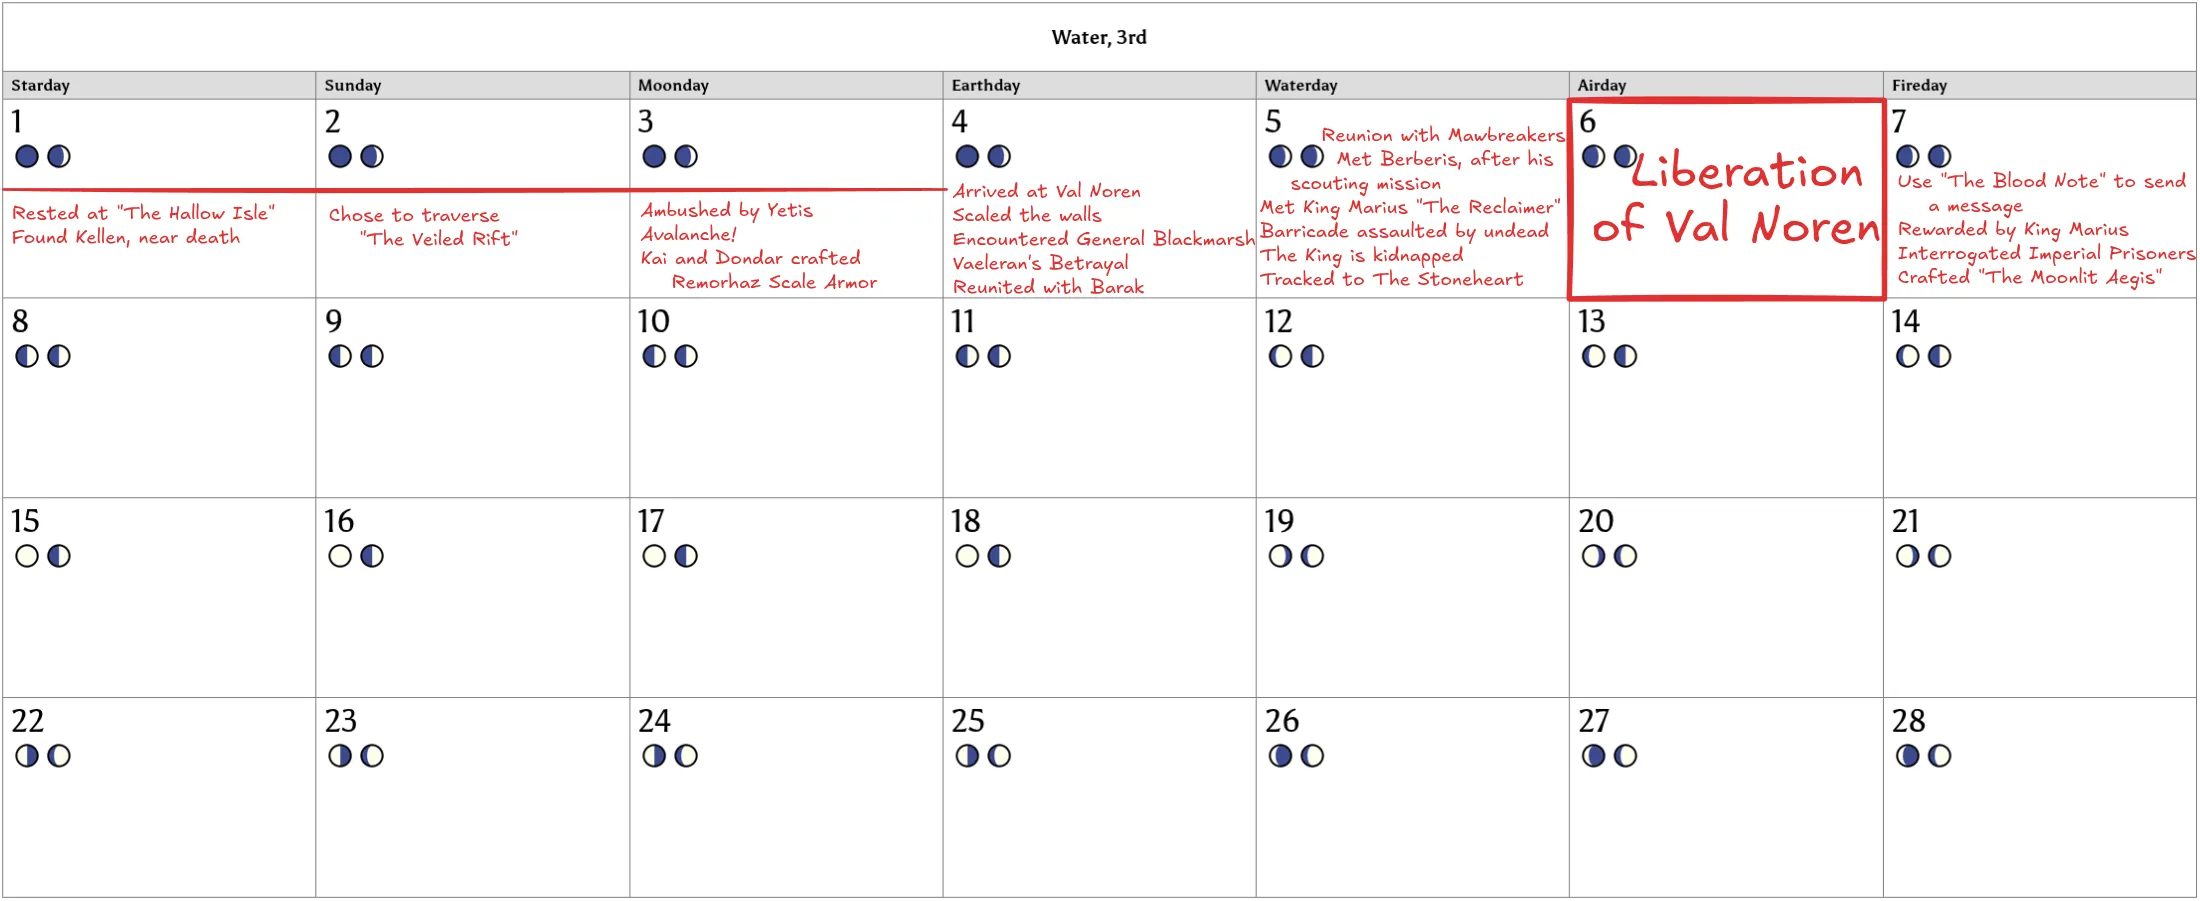
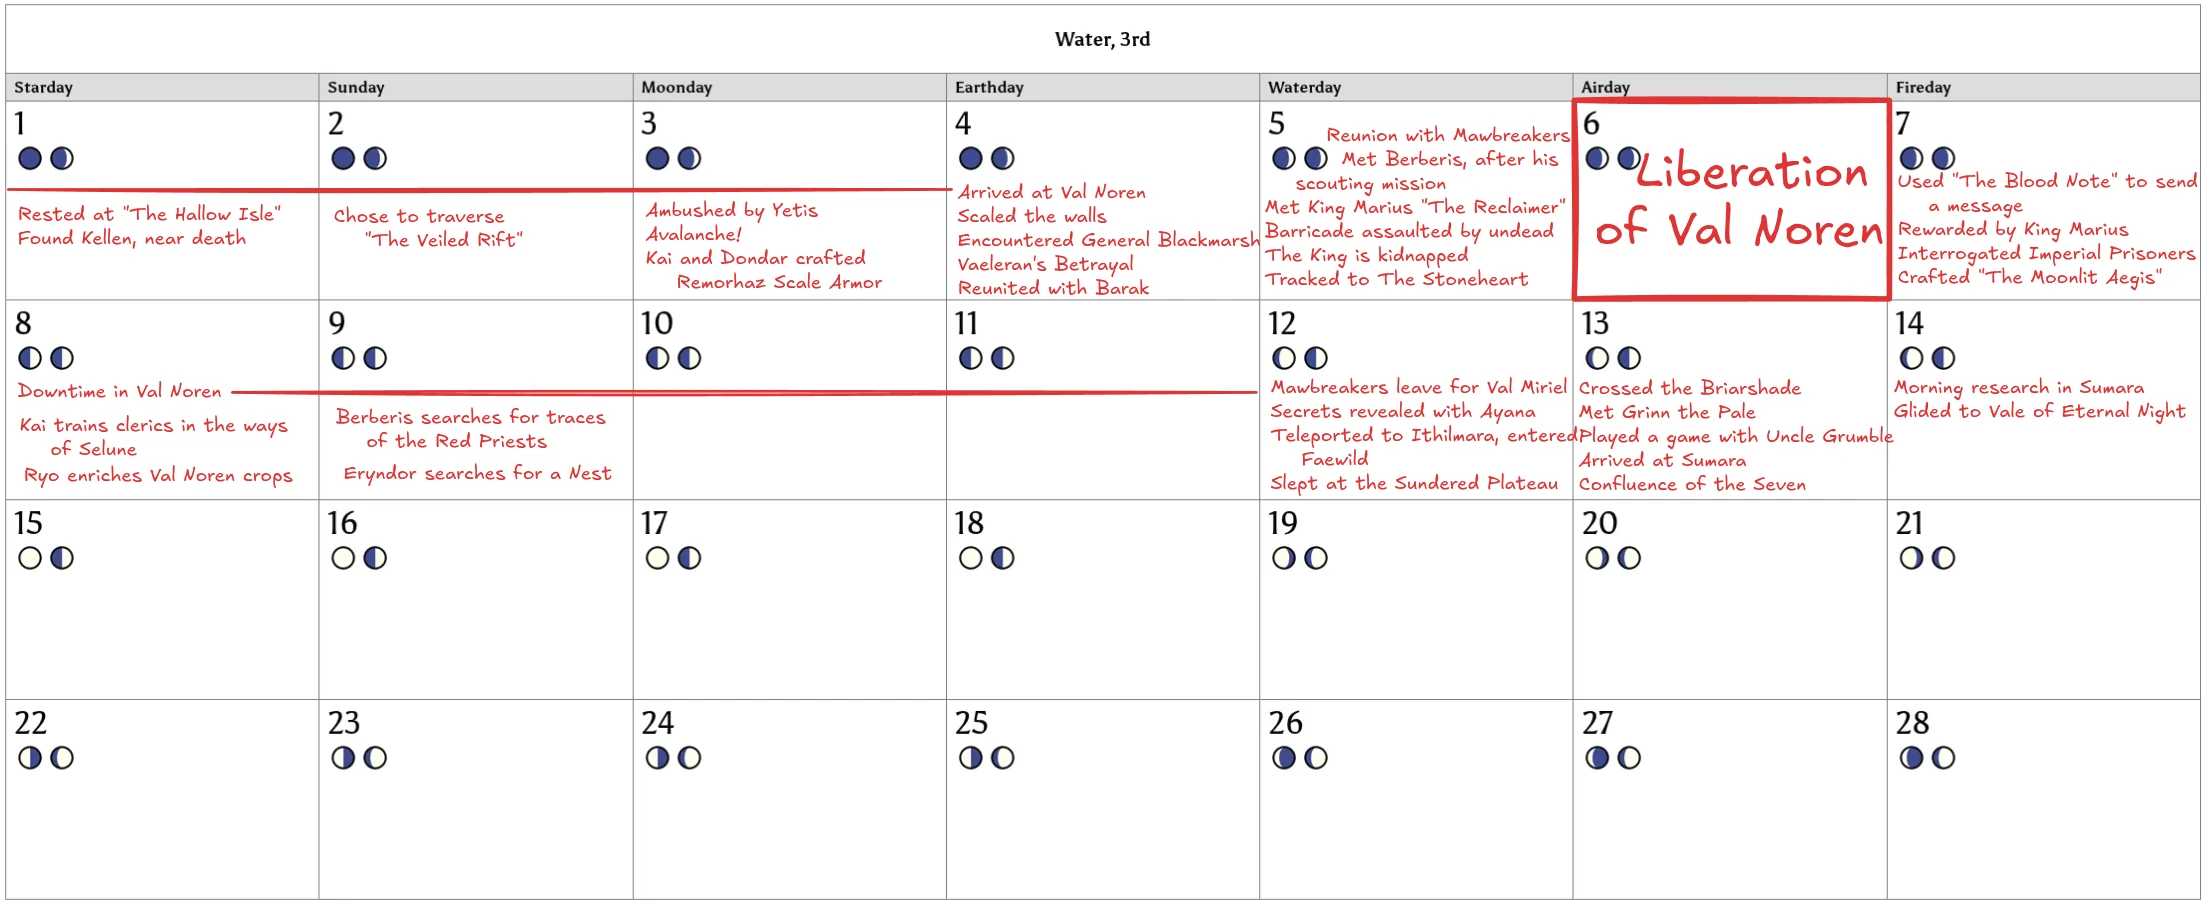
Reorganise session prep into Restricted; update codex locations
Move x_Session Prep docs and sketches under Restricted/Campaigns and
Restricted/One Shots, relocate the interactive calendar, and update
Valtorra, Gulf of Miriel and Northern Reaches codex entries.

diff --git a/Codex/Locations/Regions/Northern Reaches.md b/Codex/Locations/Regions/Northern Reaches.md
@@ -33,10 +33,9 @@ The Northern Reaches is the scattered island chain in the far north-east of [[Va
 
 The Northern Reaches extend north-east from [[Valtorra]]'s coast in a ragged arc of islands separated by cold, ice-prone channels. The largest island rises to a range of forested mountains in its interior; smaller islets to the south and west serve as waypoints and occasional shelter for those crossing the sea. In winter, the channels between the islands freeze into the [[Frostway]], the only reliable route to [[Val Noren]] when sea travel becomes untenable. The crossing is treacherous, managed primarily by the [[Frostwardens]], and takes the better part of a week under good conditions.
 
-![[Northern_Reaches_Location_small.webp|right|400]]
-
 The climate is harsh throughout the chain. Winters are long and punishing; summers are brief, grey, and wet. The forested hillsides of the larger islands are dark with evergreens that grow low and wind-bent, and the exposed coastlines are raw stone worn smooth by ice and tide. The sea is seldom warm even in high summer, and the prevailing winds blow cold off the open ocean to the north.
 
+![[Northern_Reaches_Location_small.webp]]
 
 ## Settlements & Sites
 

diff --git a/Codex/Locations/Regions/Gulf of Miriel.md b/Codex/Locations/Regions/Gulf of Miriel.md
@@ -48,6 +48,8 @@ The climate is warm and wet. Storms boil up across the gulf in the late-year gal
 
 The [[Luminor River]] is the gulf's most important geographical feature after the Maw itself: it runs from [[Val Miriel]] north through the central plains of [[Valtorra]] all the way to the capital, [[Val Luminor]]. Goods and orders flow both ways along it. The gulf is, in effect, the saltwater end of the Empire's spine.
 
+<br>
+
 ## History
 
 [[Val Miriel]] was one of the six human Kingdoms of Old — alongside [[Val Noren]], [[Val Luminor]], [[Val Solis]], [[Val Aran]], and [[Val Aerie]] — and it predates the [[Valtorran Empire|Empire]] by roughly a thousand years. Of the six, the Miriel line were the sea-facing people: Val Miriel grew into the continent's great port and the key gateway to [[Val Luminor]] up the river. Their wealth and power came from the ocean and the trade it carried — though they were never sea-raiders or sealords in the proper sense. They were a port kingdom, and the gulf was the source of everything that made them powerful.

diff --git a/Codex/Locations/Continents/Valtorra.md b/Codex/Locations/Continents/Valtorra.md
@@ -48,7 +48,12 @@ In the south, the [[Aeolian Chasm|Aeolian Mountains]] and the colossal chasm the
 
 Its climate runs the full range of the world: frozen sea-ice across the north-eastern reaches where the Frostway forms; cold boreal winters under the northern forest; temperate, fertile weather across the central plains; arid heat in the western desert; and warm, wet, storm-prone air around the southern Gulf.
 
+### High Quality Maps
 
+> [!example]+ *Links*
+> *Once open: Right Click Image > Open image in new tab*
+> - [[Valtorra-Parchment.jpg|Valtorra - Parchment]]
+> - [[Valtorra.jpg|Valtorra - Colour]]
 
 ## History
 
